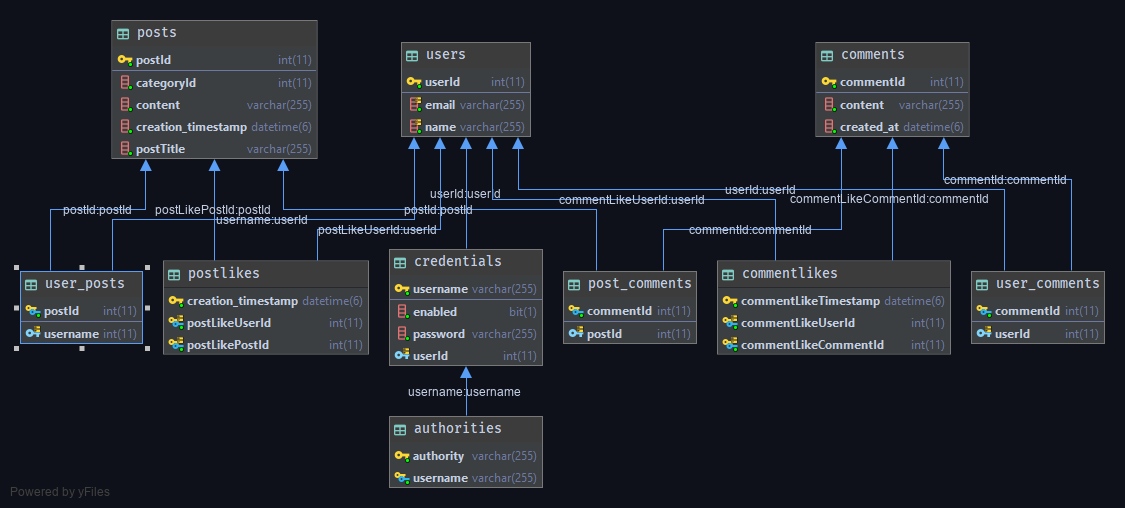
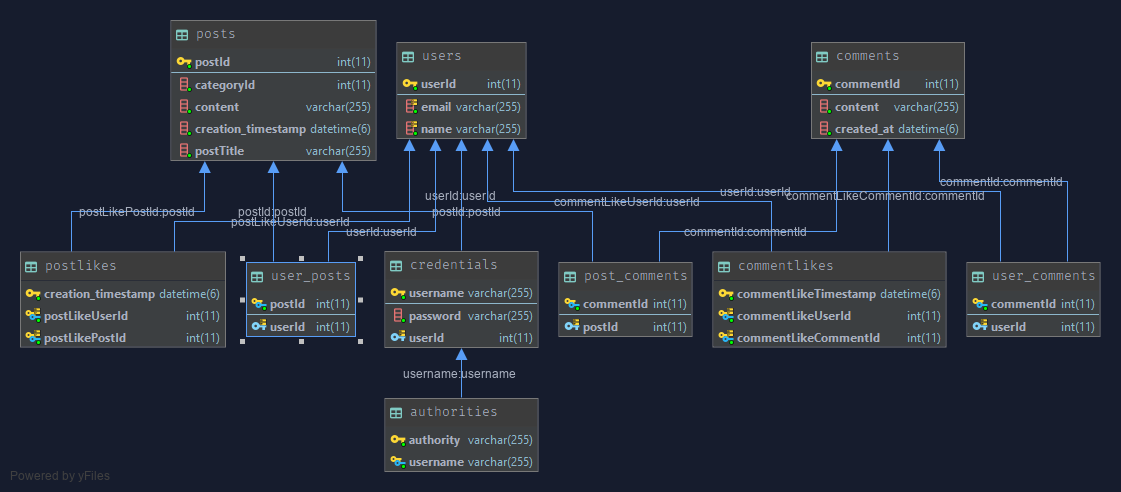
i'm in over my head

diff --git a/src/main/java/com/casestudy/moez/bhatti/controllers/PostController.java b/src/main/java/com/casestudy/moez/bhatti/controllers/PostController.java
@@ -1,0 +1,49 @@
+package com.casestudy.moez.bhatti.controllers;
+
+
+import com.casestudy.moez.bhatti.models.Post;
+import com.casestudy.moez.bhatti.repository.CredentialRepository;
+import org.springframework.beans.factory.annotation.Autowired;
+import org.springframework.beans.propertyeditors.CustomDateEditor;
+import org.springframework.stereotype.Controller;
+import org.springframework.validation.BindingResult;
+import org.springframework.web.bind.WebDataBinder;
+import org.springframework.web.bind.annotation.InitBinder;
+import org.springframework.web.bind.annotation.ModelAttribute;
+import org.springframework.web.bind.annotation.RequestMapping;
+import org.springframework.web.bind.annotation.RequestMethod;
+import org.springframework.web.servlet.ModelAndView;
+import org.springframework.web.servlet.mvc.support.RedirectAttributes;
+
+import javax.validation.Valid;
+import java.security.Principal;
+import java.text.SimpleDateFormat;
+import java.util.Date;
+
+@Controller
+public class PostController {
+
+    @Autowired
+    CredentialRepository credentialRepository;
+
+    @InitBinder
+    public void initBinder(WebDataBinder binder) {
+        SimpleDateFormat sdf = new SimpleDateFormat("yyyy-MM-dd HH:mm:ss");
+        binder.registerCustomEditor(Date.class, "timestamp", new CustomDateEditor(sdf, false));
+    }
+
+    @RequestMapping("/createPost")
+    public ModelAndView getPostCreationPage(Principal principal) {
+        ModelAndView mav = new ModelAndView("createPost");
+        mav.addObject("postFormObject", new Post());
+        return mav;
+    }
+
+    @RequestMapping(value = "postAction", method = RequestMethod.POST)
+    public ModelAndView processForm(@Valid @ModelAttribute("postFormObject") Post post,
+                                    BindingResult br, RedirectAttributes redirect) {
+        ModelAndView mav = null;
+
+    }
+
+}

diff --git a/src/main/java/com/casestudy/moez/bhatti/controllers/CommentController.java b/src/main/java/com/casestudy/moez/bhatti/controllers/CommentController.java
@@ -1,0 +1,20 @@
+package com.casestudy.moez.bhatti.controllers;
+
+import org.springframework.beans.propertyeditors.CustomDateEditor;
+import org.springframework.stereotype.Controller;
+import org.springframework.web.bind.WebDataBinder;
+import org.springframework.web.bind.annotation.InitBinder;
+
+import java.text.SimpleDateFormat;
+import java.util.Date;
+
+@Controller
+public class CommentController {
+
+    @InitBinder
+    public void initBinder(WebDataBinder binder) {
+        SimpleDateFormat sdf = new SimpleDateFormat("yyyy-MM-dd HH:mm:ss");
+        binder.registerCustomEditor(Date.class, "timestamp", new CustomDateEditor(sdf, false));
+    }
+
+}

diff --git a/src/main/java/com/casestudy/moez/bhatti/models/Post.java b/src/main/java/com/casestudy/moez/bhatti/models/Post.java
@@ -26,7 +26,7 @@ public class Post {
     @ManyToOne(fetch = FetchType.LAZY)
     @JoinTable(name = "user_posts",
             joinColumns = @JoinColumn(name = "postId"),
-            inverseJoinColumns = @JoinColumn(name = "username"))
+            inverseJoinColumns = @JoinColumn(name = "userId"))
     private User postAuthor; //user that is the author of this post
 
     @NotEmpty

diff --git a/src/main/java/com/casestudy/moez/bhatti/repository/PostRepository.java b/src/main/java/com/casestudy/moez/bhatti/repository/PostRepository.java
@@ -1,0 +1,12 @@
+package com.casestudy.moez.bhatti.repository;
+
+import com.casestudy.moez.bhatti.models.Post;
+import org.springframework.data.jpa.repository.JpaRepository;
+import org.springframework.stereotype.Repository;
+
+@Repository
+public interface PostRepository extends JpaRepository<Post, Integer> {
+
+    Post findPostById(Integer postId);
+
+}

diff --git a/src/main/java/com/casestudy/moez/bhatti/repository/CommentRepository.java b/src/main/java/com/casestudy/moez/bhatti/repository/CommentRepository.java
@@ -1,0 +1,11 @@
+package com.casestudy.moez.bhatti.repository;
+
+
+import com.casestudy.moez.bhatti.models.Comment;
+import org.springframework.data.jpa.repository.JpaRepository;
+
+public interface CommentRepository extends JpaRepository<Comment, Integer> {
+
+    Comment findCommentById(Integer commentId);
+
+}

diff --git a/src/main/java/com/casestudy/moez/bhatti/service/PostService.java b/src/main/java/com/casestudy/moez/bhatti/service/PostService.java
@@ -1,0 +1,9 @@
+package com.casestudy.moez.bhatti.service;
+
+import org.springframework.stereotype.Service;
+
+@Service
+public class PostService {
+
+
+}

diff --git a/src/main/java/com/casestudy/moez/bhatti/service/CommentService.java b/src/main/java/com/casestudy/moez/bhatti/service/CommentService.java
@@ -1,0 +1,4 @@
+package com.casestudy.moez.bhatti.service;
+
+public class CommentService {
+}
